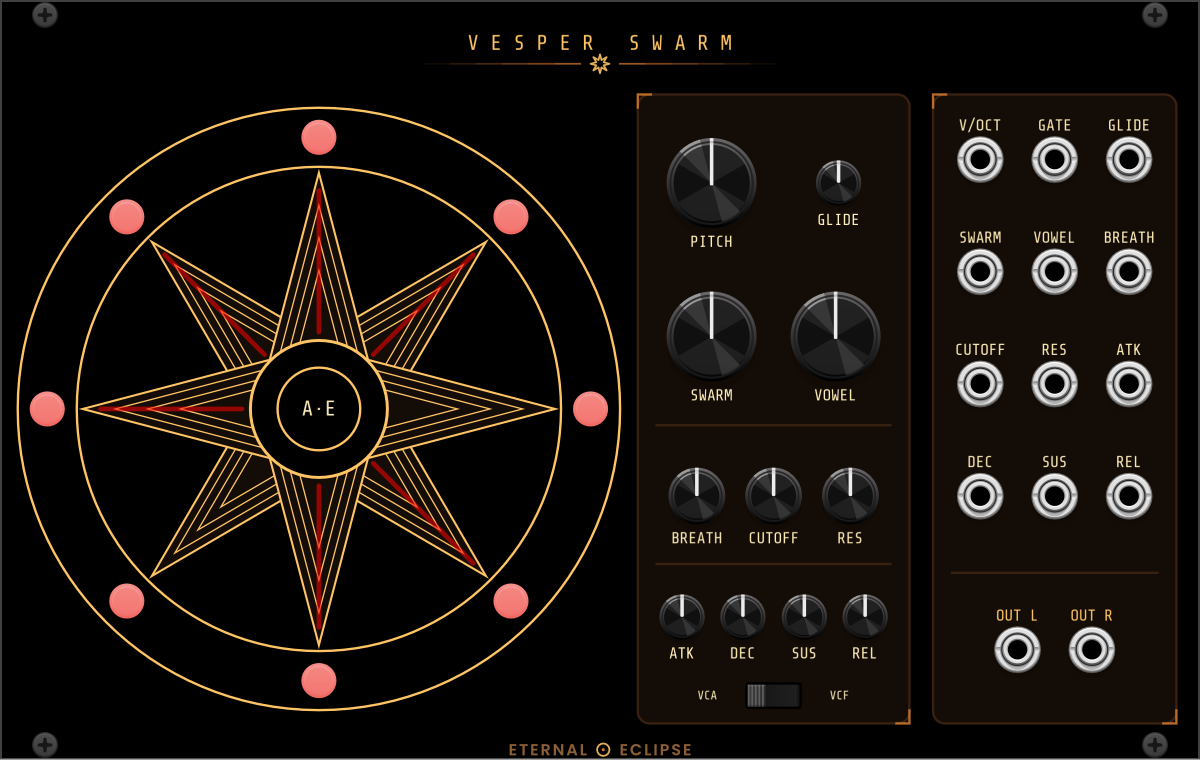
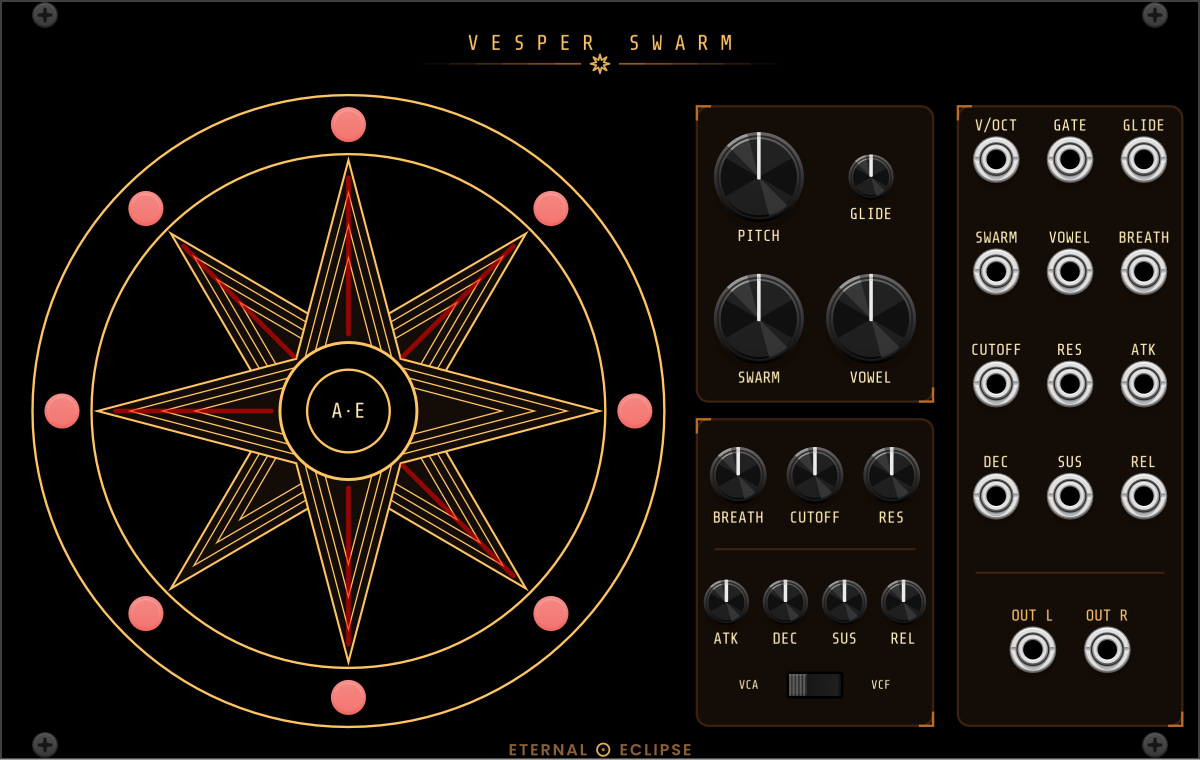
Vesper Swarm: Coronal Annihilator proportions, larger star (OMN-106)
The controls column is now 40 mm in two boxes (voice; filter + envelope)
and the bay 38 mm, both from y 18 to the screw line, as on Coronal
Annihilator. The star moves right and grows: tips at 42.5 mm, the singers'
ring out to 53.5, filling the left 110 mm of the panel.

diff --git a/src/VesperSwarm/VesperSwarm.cpp b/src/VesperSwarm/VesperSwarm.cpp
@@ -222,9 +222,9 @@ struct VesperSwarm : Module {
 
 // Panel geometry (mm). The star of Ishtar is drawn in the SVG; the singers'
 // toggles sit just beyond its points and the display breathes in its heart.
-static constexpr float STAR_X = 4.f, STAR_Y = 16.f, STAR_W = 100.f, STAR_H = 106.5f;
-static constexpr float STAR_CX = 54.f, STAR_CY = 69.25f, STAR_R = 40.f;
-static constexpr float BUTTON_R = 46.f; // in the ring between the SVG's circles at 41 and 51
+static constexpr float STAR_X = 4.f, STAR_Y = 14.f, STAR_W = 110.f, STAR_H = 111.f;
+static constexpr float STAR_CX = 59.f, STAR_CY = 69.6f, STAR_R = 42.5f;
+static constexpr float BUTTON_R = 48.5f; // in the ring between the SVG's circles at 43.5 and 53.5
 
 static Vec starPoint(int i, float r) {
 	float a = -0.5f * (float)M_PI + (float)i * 0.25f * (float)M_PI;
@@ -290,8 +290,10 @@ struct StarDisplay : TransparentWidget {
 };
 
 struct VesperSwarmWidget : ModuleWidget {
-	// 40 HP. The star on the left, controls in the middle, patch bay right.
-	static constexpr float BAY_C0 = 166.f, BAY_C1 = 178.6f, BAY_C2 = 191.2f;
+	// 40 HP in the Coronal Annihilator's proportions: the star on the left,
+	// a 40 mm controls column in two boxes, a 38 mm patch bay.
+	static constexpr float KX_L = 128.5f, KX_R = 147.5f; // the two big-knob columns
+	static constexpr float BAY_C0 = 168.7f, BAY_C1 = 181.2f, BAY_C2 = 193.7f;
 	static constexpr float BAY_ROW0 = 27.f, BAY_DY = 19.f;
 
 	void addLabel(Vec mmPos, const std::string& text, float fontSize = eclipse::LABEL_SIZE,
@@ -326,35 +328,36 @@ struct VesperSwarmWidget : ModuleWidget {
 			addParam(createLightParamCentered<eclipse::LightButton>(
 				mm2px(starPoint(i, BUTTON_R)), module, VesperSwarm::VOICE_PARAMS + i, VesperSwarm::VOICE_LIGHTS + i));
 
-		// ===== Controls =====
-		addParam(createParamCentered<RoundBigBlackKnob>(mm2px(Vec(120.5f, 31.f)), module, VesperSwarm::PITCH_PARAM));
-		addLabel(Vec(120.5f, 41.f), "PITCH");
-		addParam(createParamCentered<RoundSmallBlackKnob>(mm2px(Vec(142.f, 31.f)), module, VesperSwarm::GLIDE_PARAM));
-		addLabel(Vec(142.f, 37.3f), "GLIDE");
+		// ===== Voice box =====
+		addParam(createParamCentered<RoundBigBlackKnob>(mm2px(Vec(KX_L, 30.f)), module, VesperSwarm::PITCH_PARAM));
+		addLabel(Vec(KX_L, 40.f), "PITCH");
+		addParam(createParamCentered<RoundSmallBlackKnob>(mm2px(Vec(KX_R, 30.f)), module, VesperSwarm::GLIDE_PARAM));
+		addLabel(Vec(KX_R, 36.3f), "GLIDE");
 
-		addParam(createParamCentered<RoundBigBlackKnob>(mm2px(Vec(120.5f, 57.f)), module, VesperSwarm::SWARM_PARAM));
-		addLabel(Vec(120.5f, 67.f), "SWARM");
-		addParam(createParamCentered<RoundBigBlackKnob>(mm2px(Vec(141.5f, 57.f)), module, VesperSwarm::VOWEL_PARAM));
-		addLabel(Vec(141.5f, 67.f), "VOWEL");
+		addParam(createParamCentered<RoundBigBlackKnob>(mm2px(Vec(KX_L, 54.f)), module, VesperSwarm::SWARM_PARAM));
+		addLabel(Vec(KX_L, 64.f), "SWARM");
+		addParam(createParamCentered<RoundBigBlackKnob>(mm2px(Vec(KX_R, 54.f)), module, VesperSwarm::VOWEL_PARAM));
+		addLabel(Vec(KX_R, 64.f), "VOWEL");
 
-		addParam(createParamCentered<RoundBlackKnob>(mm2px(Vec(118.f, 84.f)), module, VesperSwarm::BREATH_PARAM));
-		addParam(createParamCentered<RoundBlackKnob>(mm2px(Vec(131.f, 84.f)), module, VesperSwarm::CUTOFF_PARAM));
-		addParam(createParamCentered<RoundBlackKnob>(mm2px(Vec(144.f, 84.f)), module, VesperSwarm::RES_PARAM));
-		addLabel(Vec(118.f, 91.2f), "BREATH");
-		addLabel(Vec(131.f, 91.2f), "CUTOFF");
-		addLabel(Vec(144.f, 91.2f), "RES");
+		// ===== Filter + envelope box =====
+		addParam(createParamCentered<RoundBlackKnob>(mm2px(Vec(125.f, 80.5f)), module, VesperSwarm::BREATH_PARAM));
+		addParam(createParamCentered<RoundBlackKnob>(mm2px(Vec(138.f, 80.5f)), module, VesperSwarm::CUTOFF_PARAM));
+		addParam(createParamCentered<RoundBlackKnob>(mm2px(Vec(151.f, 80.5f)), module, VesperSwarm::RES_PARAM));
+		addLabel(Vec(125.f, 87.7f), "BREATH");
+		addLabel(Vec(138.f, 87.7f), "CUTOFF");
+		addLabel(Vec(151.f, 87.7f), "RES");
 
-		static const float EX[4] = {115.5f, 125.8f, 136.2f, 146.5f};
+		static const float EX[4] = {123.f, 133.f, 143.f, 153.f};
 		static const int EP[4] = {VesperSwarm::ATTACK_PARAM, VesperSwarm::DECAY_PARAM,
 		                          VesperSwarm::SUSTAIN_PARAM, VesperSwarm::RELEASE_PARAM};
 		static const char* EL[4] = {"ATK", "DEC", "SUS", "REL"};
 		for (int i = 0; i < 4; i++) {
-			addParam(createParamCentered<RoundSmallBlackKnob>(mm2px(Vec(EX[i], 104.5f)), module, EP[i]));
-			addLabel(Vec(EX[i], 110.7f), EL[i]);
+			addParam(createParamCentered<RoundSmallBlackKnob>(mm2px(Vec(EX[i], 102.f)), module, EP[i]));
+			addLabel(Vec(EX[i], 108.2f), EL[i]);
 		}
-		addParam(createParamCentered<eclipse::CKSSHorizontal>(mm2px(Vec(131.f, 117.8f)), module, VesperSwarm::ENV_DEST_PARAM));
-		addLabel(Vec(119.8f, 117.8f), "VCA", eclipse::FINE_SIZE);
-		addLabel(Vec(142.2f, 117.8f), "VCF", eclipse::FINE_SIZE);
+		addParam(createParamCentered<eclipse::CKSSHorizontal>(mm2px(Vec(138.f, 116.f)), module, VesperSwarm::ENV_DEST_PARAM));
+		addLabel(Vec(126.8f, 116.f), "VCA", eclipse::FINE_SIZE);
+		addLabel(Vec(149.2f, 116.f), "VCF", eclipse::FINE_SIZE);
 
 		// ===== Bay =====
 		addBayInput(BAY_C0, 0, "V/OCT", VesperSwarm::VOCT_INPUT, module);
@@ -370,10 +373,10 @@ struct VesperSwarmWidget : ModuleWidget {
 		addBayInput(BAY_C1, 3, "SUS", VesperSwarm::SUSTAIN_INPUT, module);
 		addBayInput(BAY_C2, 3, "REL", VesperSwarm::RELEASE_INPUT, module);
 
-		addLabel(Vec(172.3f, 104.3f), "OUT L", eclipse::LABEL_SIZE, eclipse::ACCENT_COLOR);
-		addLabel(Vec(184.9f, 104.3f), "OUT R", eclipse::LABEL_SIZE, eclipse::ACCENT_COLOR);
-		addOutput(createOutputCentered<PJ301MPort>(mm2px(Vec(172.3f, 110.f)), module, VesperSwarm::OUTL_OUTPUT));
-		addOutput(createOutputCentered<PJ301MPort>(mm2px(Vec(184.9f, 110.f)), module, VesperSwarm::OUTR_OUTPUT));
+		addLabel(Vec(174.9f, 104.3f), "OUT L", eclipse::LABEL_SIZE, eclipse::ACCENT_COLOR);
+		addLabel(Vec(187.5f, 104.3f), "OUT R", eclipse::LABEL_SIZE, eclipse::ACCENT_COLOR);
+		addOutput(createOutputCentered<PJ301MPort>(mm2px(Vec(174.9f, 110.f)), module, VesperSwarm::OUTL_OUTPUT));
+		addOutput(createOutputCentered<PJ301MPort>(mm2px(Vec(187.5f, 110.f)), module, VesperSwarm::OUTR_OUTPUT));
 	}
 
 	void appendContextMenu(Menu* menu) override {

diff --git a/tools/gen_vesper_panel.py b/tools/gen_vesper_panel.py
@@ -15,20 +15,22 @@ SYZYGY = (ROOT / "res" / "Syzygy.svg").read_text(encoding="utf-8")
 W, H = 203.2, 128.5
 CX_PANEL = 101.6
 
-# Frames
-TOP, FRAME_H = 16.0, 106.5
-CTRL_X, CTRL_W = 108.0, 46.0
-BAY_X, BAY_W = 158.0, 41.2
+# Frames, in the Coronal Annihilator's proportions: a 40 mm controls column
+# in two boxes and a 38 mm bay, both from y 18 to the screw line
+TOP, BOTTOM = 18.0, 122.9
+CTRL_X, CTRL_W = 118.0, 40.0
+CTRL_SPLIT = 68.0               # top box ends here, the lower starts at +3
+BAY_X, BAY_W = 162.2, 38.0
 
 # The star of Ishtar: two four-pointed stars, one laid over the other at
 # 45 degrees, each with nested bands following its edges, and a bullseye at
 # the heart. The singers' buttons sit just beyond the tips (see
 # VesperSwarm.cpp) so the points stay sharp.
-STAR_CX, STAR_CY, STAR_R = 54.0, 69.25, 40.0
+STAR_CX, STAR_CY, STAR_R = 59.0, 69.6, 42.5
 STAR_INNER = 0.42 * STAR_R      # radius of the notches of the eight-point silhouette
 STAR_INSETS = (1.4, 2.8, 4.2)   # mm, the nested bands of each four-pointed star
 STAR_EDGE_W, STAR_BAND_W = 0.35, 0.22  # mm; much under 0.25 fades at 100% zoom
-RING_IN, RING_OUT = 41.0, 51.0  # the singers' ring: buttons at 46 sit between
+RING_IN, RING_OUT = 43.5, 53.5  # the singers' ring: buttons at 48.5 sit between
 
 
 def f(x):
@@ -113,12 +115,11 @@ def path_of(pts):
     return "M " + " L ".join(f"{f(x)},{f(y)}" for x, y in pts) + " Z"
 
 
-def frame(x, w):
-    return f'  <rect x="{f(x)}" y="{f(TOP)}" width="{f(w)}" height="{f(FRAME_H)}" rx="2" fill="#140c06" stroke="#382110" stroke-width="0.4"/>\n'
+def frame(x, w, y0=TOP, y1=BOTTOM):
+    return f'  <rect x="{f(x)}" y="{f(y0)}" width="{f(w)}" height="{f(y1 - y0)}" rx="2" fill="#140c06" stroke="#382110" stroke-width="0.4"/>\n'
 
 
-def brackets(x, w):
-    y0, y1 = TOP, TOP + FRAME_H
+def brackets(x, w, y0=TOP, y1=BOTTOM):
     return (
         f'    <path d="M {f(x)},{f(y0 + 2.4)} L {f(x)},{f(y0)} L {f(x + 2.4)},{f(y0)}"/>\n'
         f'    <path d="M {f(x + w)},{f(y1 - 2.4)} L {f(x + w)},{f(y1)} L {f(x + w - 2.4)},{f(y1)}"/>\n'
@@ -145,10 +146,10 @@ svg.append("  <!-- The singers' ring, just outside the points -->\n")
 svg.append(f'  <circle cx="{f(STAR_CX)}" cy="{f(STAR_CY)}" r="{f(RING_IN)}" fill="none" stroke="#ffc464" stroke-width="0.4"/>\n')
 svg.append(f'  <circle cx="{f(STAR_CX)}" cy="{f(STAR_CY)}" r="{f(RING_OUT)}" fill="none" stroke="#ffc464" stroke-width="0.4"/>\n')
 
-svg.append("\n  <!-- Controls frame: pitch, swarm, vowel, breath, filter, envelope -->\n")
-svg.append(frame(CTRL_X, CTRL_W))
-svg.append(f'  <line x1="{f(CTRL_X + 3)}" y1="72" x2="{f(CTRL_X + CTRL_W - 3)}" y2="72" stroke="#382110" stroke-width="0.4"/>\n')
-svg.append(f'  <line x1="{f(CTRL_X + 3)}" y1="95.5" x2="{f(CTRL_X + CTRL_W - 3)}" y2="95.5" stroke="#382110" stroke-width="0.4"/>\n')
+svg.append("\n  <!-- Controls: voice box (pitch, glide, swarm, vowel) over filter + envelope box -->\n")
+svg.append(frame(CTRL_X, CTRL_W, TOP, CTRL_SPLIT))
+svg.append(frame(CTRL_X, CTRL_W, CTRL_SPLIT + 3.0, BOTTOM))
+svg.append(f'  <line x1="{f(CTRL_X + 3)}" y1="93" x2="{f(CTRL_X + CTRL_W - 3)}" y2="93" stroke="#382110" stroke-width="0.4"/>\n')
 
 svg.append("\n  <!-- Patch bay frame: CV inputs, then the stereo outputs -->\n")
 svg.append(frame(BAY_X, BAY_W))
@@ -156,7 +157,8 @@ svg.append(f'  <line x1="{f(BAY_X + 3)}" y1="97" x2="{f(BAY_X + BAY_W - 3)}" y2=
 
 svg.append("\n  <!-- Corner brackets (Church card motif) -->\n")
 svg.append('  <g fill="none" stroke="#cd762b" stroke-width="0.4" stroke-opacity="0.9">\n')
-svg.append(brackets(CTRL_X, CTRL_W))
+svg.append(brackets(CTRL_X, CTRL_W, TOP, CTRL_SPLIT))
+svg.append(brackets(CTRL_X, CTRL_W, CTRL_SPLIT + 3.0, BOTTOM))
 svg.append(brackets(BAY_X, BAY_W))
 svg.append("  </g>\n\n")
 svg.append(brand)
